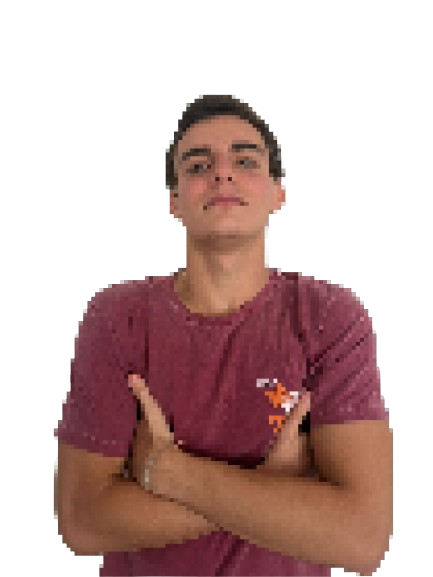
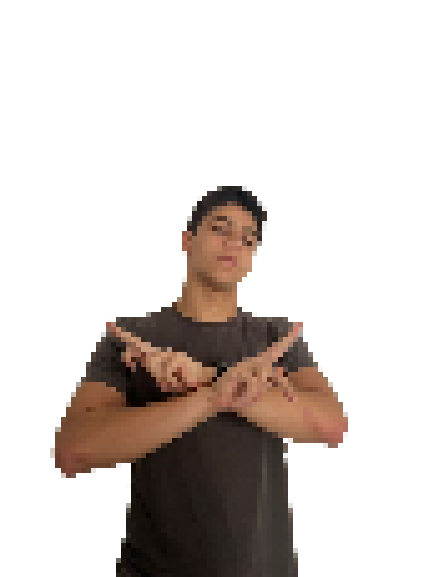
erro no display do j1

diff --git a/interface.py b/interface.py
@@ -18,17 +18,21 @@ current_screen='tela carregamento'
 clock = pygame.time.Clock()
 FPS=60
 countloadbar=0
+
+# Importa imagens de personagens
 Namelist=[]
 Facelist=[]
 area_list=[]
-dic_fullcharacters={}
-list_characters=['Fred Tio','Alekinho','Fred Tio','Alekinho','Fred Tio','Alekinho','Fred Tio','Alekinho','Fred Tio','Alekinho','Fred Tio','Alekinho','Fred Tio','Alekinho','Fred Tio','Alekinho','Fred Tio','Alekinho','Fred Tio','Alekinho']
+Fullbody_list=[]
+Full_list1={}
+Full_list2={}
+list_characters=['Fred Tio','Alekinho','Baiano','Alekinho','Fred Tio','Alekinho','Fred Tio','Alekinho','Fred Tio','Alekinho','Fred Tio','Alekinho','Fred Tio','Alekinho','Fred Tio','Alekinho','Fred Tio','Alekinho','Fred Tio','Alekinho']
 for characters in range(20):
     Characimage = pygame.image.load(f'images/Personagem{characters}.png')
-    # Fullbody = pygame.image.load(f'images/FullPerson{characters}.png').convert()
+    Fullbody = pygame.image.load(f'images/FullPerson{characters}.png')
     Namelist.append(list_characters[characters])
     Facelist.append(Characimage)
-    # dic_fullcharacters[f'{list_characters[characters]}']=Fullbody
+    Fullbody_list.append(Fullbody)
 
 # Carregar a música de fundo
 pygame.mixer.music.load("trilhas_sonoras/trilha_sonora_tela_inicial.mp3")  # Substitua pelo caminho do seu arquivo de música
@@ -40,7 +44,6 @@ while game:
 
     clock.tick(FPS)
     
-
     if current_screen == 'tela carregamento':
         frames+=1
         # Trata eventos
@@ -69,6 +72,8 @@ while game:
         pygame.draw.polygon(window, colorload1, verticesloadbar1)
         verticesloadbar2=[(300,510),(300,525),(300+countloadbar,525),(300+countloadbar,510)]
         colorload2=(15,255,3)
+
+        # Verifica se ultrapassa limite
         if countloadbar+300<900:
             pygame.draw.polygon(window, colorload2, verticesloadbar2)
         else:
@@ -77,6 +82,7 @@ while game:
             pygame.draw.polygon(window, colorload2, verticesloadbar2)
         countloadbar+=3
 
+        # Verifica se atinge limite
         if countloadbar>=600:
             font = pygame.font.SysFont(None, 24)
             text = font.render('Concluído!', True, (255,255,255))
@@ -84,8 +90,10 @@ while game:
             window.blit(text, (600-textrect[2]/2, 530))
 
 
-    
+    # Troca tela
     if current_screen == 'tela inicio':
+        
+        # Da play na musica em loop
         if song1variable==0:
             pygame.mixer.music.play(-1,2)
         song1variable+=1
@@ -159,10 +167,11 @@ while game:
                         current_screen='modo de jogo'
 
 
-        
+    # Troca tela 
     if current_screen=='modo de jogo':
         window.blit(BGSSimage, BGSSimage_rect)
-
+        
+        # Importa imagens
         Arrowimage=pygame.image.load('images/Setavoltar.png')
         Arrowimagewidth=75
         Arrowimageheight=50
@@ -188,6 +197,7 @@ while game:
         Arcadeimage_rect.center=((width/2)+150,(height/2))
         window.blit(Arcadeimage, Arcadeimage_rect)
     
+        # Define areas
         x1_area=pygame.Rect(((width/2))-(x1imagewidth/2)-150,(height/2)-(x1imageheight/2),200,200)
         Arcade_area=pygame.Rect(((width/2))-(Arcadeimagewidth/2)+150,(height/2)-(Arcadeimageheight/2),200,200)
         arrow_area=pygame.Rect(0,0,75,50)
@@ -207,42 +217,61 @@ while game:
                     if Arcade_area.collidepoint(mouse_pos):
                         current_screen='personagens'
                         currentmode='arcade'
-    
+
+        # Cria variáveis de imagem
+        imagepers1=False
+        imagepers2=False
+
+    # Troca tela
     if current_screen=='personagens':
 
+        # Plota Bg
         window.blit(BGSSimage, BGSSimage_rect)
 
+        # Importa imagens
         Gradeimage=pygame.image.load('images/Gradepersonagens.png')
-        Gradeimagewidth=1000
+        Gradeimagewidth=800
         Gradeimageheight=500
         Gradeimage = pygame.transform.scale(Gradeimage, (Gradeimagewidth, Gradeimageheight))
         Gradeimage_rect=Gradeimage.get_rect()
         Gradeimage_rect.center=((width/2),(height/2))
         window.blit(Gradeimage, Gradeimage_rect)
-
         window.blit(Arrowimage, Arrowimage_rect)
 
+        # Nomes, faces e fotos do corpo todo
         counter=0
         for heightcount in range(4):
             for Gridcount in range(5):
                 Name=Namelist[counter]
                 Face=Facelist[counter]
+                Full=Fullbody_list[counter]
                 counter+=1
-                Facewidth=160
+                Facewidth=120
                 Faceheight=75
                 Face = pygame.transform.scale(Face, (Facewidth, Faceheight))
                 Face_rect=Face.get_rect()
-                Face_rect.center=((40+100+90+50+(Gridcount*160)),(50+37.5+100+(heightcount*75)))
+                Face_rect.center=((200+60+85+(Gridcount*130)),(50+37.5+100+(heightcount*75)))
                 window.blit(Face, Face_rect)
-                current_area=((-Facewidth/2)+40+100+90+50+(Gridcount*160), ((-Faceheight/2)+50+37.5+100+(heightcount*75)), Facewidth, Faceheight)
+                current_area=((-Facewidth/2)+200+60+85+(Gridcount*130), ((-Faceheight/2)+50+37.5+100+(heightcount*75)), Facewidth, Faceheight)
                 area_list.append(current_area)
 
                 fontname = pygame.font.SysFont(None, 48)
                 Name = font.render(f'{Name.upper()}', True, (255, 255, 255))
                 Name_rect=Name.get_rect()
-                Name_rect.center=((40+100+90+50+(Gridcount*160)),(-7.5+50+75+100+(heightcount*75)))
+                Name_rect.center=((200+85+60+(Gridcount*130)),(-7.5+50+75+100+(heightcount*75)))
                 window.blit(Name, Name_rect)
 
+                Fullwidth=200
+                Fullheight=500
+                Full = pygame.transform.scale(Full, (Fullwidth, Fullheight))
+                Full_rect1=Full.get_rect()
+                Full_rect2=Full.get_rect()
+                Full_rect1.center=(150,300)
+                Full_list1[Full]=Full_rect1
+                Full_rect2.center=(1050,300)
+                Full_list2[Full]=Full_rect2
+
+        # Botão de confirmar
         Confirmb=pygame.image.load('images/Confirmb.png')
         Confirmedb=pygame.image.load('images/Confirmedb.png')
         Confirmbwidth=300
@@ -275,6 +304,11 @@ while game:
         else:
             window.blit(Confirmedb2, Confirmedb2_rect)
 
+        if imagepers1==True:
+            window.blit(first1, second1)
+        if imagepers2==True:
+            window.blit(first2, second2)
+
         Confirmb1_area=pygame.Rect(250,425,300,200)
         Confirmb2_area=pygame.Rect(650,425,300,200)
 
@@ -290,17 +324,30 @@ while game:
                     for countarea in range(len(area_list)):
                         current_area=pygame.Rect(area_list[countarea])
                         if current_area.collidepoint(mouse_pos):
-                            Fullpers=Namelist[countarea]
+                            diccount=0
+                            for firs,secon in Full_list1.items():
+                                if diccount==countarea:
+                                    if j1==False:
+                                        imagepers1=True
+                                        first1=firs
+                                        second1=secon
+                            diccount=0
+                            for firs,secon in Full_list2.items():
+                                if diccount==countarea:
+                                    if j1==True and j2==False:
+                                        imagepers2=True
+                                        first2=firs
+                                        second2=secon
+                                diccount+=1
+
                     if Confirmb1_area.collidepoint(mouse_pos):
                         if j1==False:
                             j1=True
                         else:
                             j1=False
                     if Confirmb2_area.collidepoint(mouse_pos):
-                        if j2==False:
+                        if j2==False and j1==True:
                             j2=True
-                        else:
-                            j2=False
         if j1 and j2:
             current_screen='tela mapas'
     
